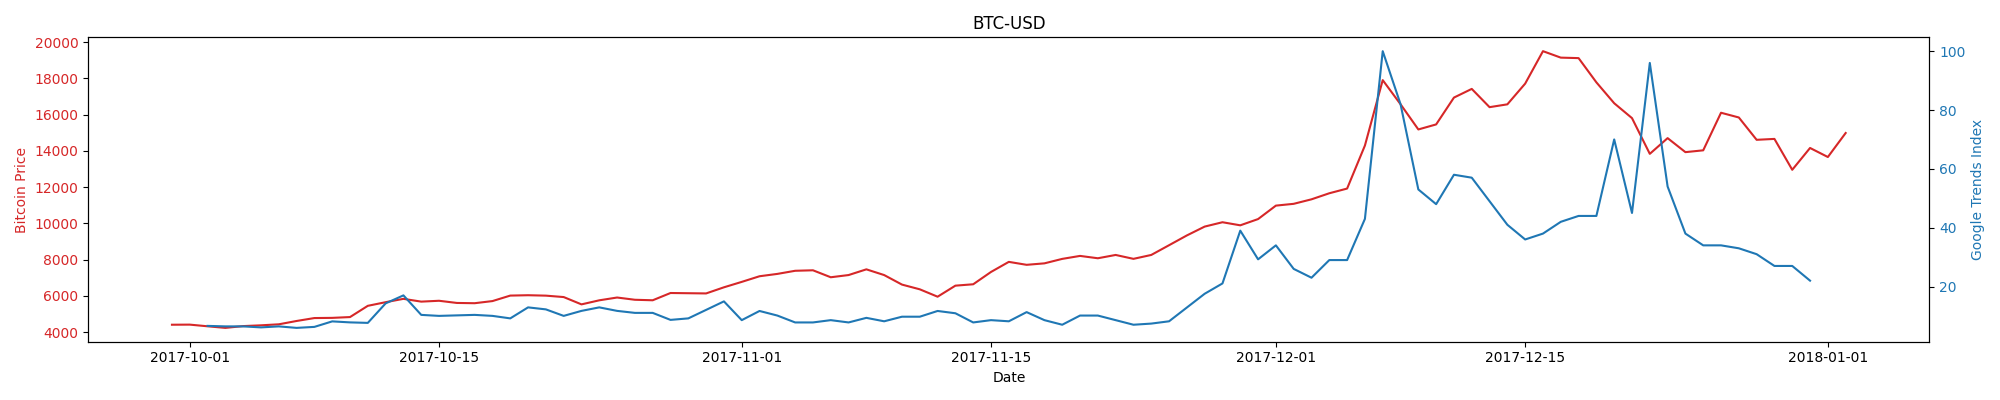
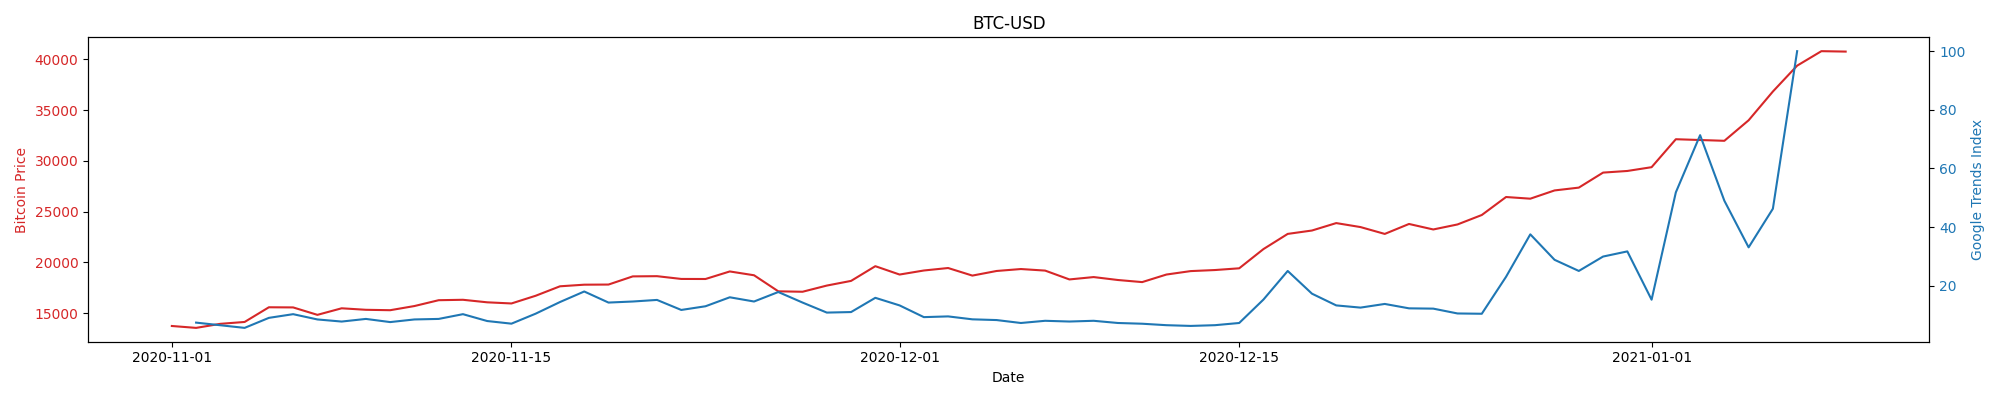
Completed update_csv_data function to update the csv file. Allows for updating data stored and faster graphing.

diff --git a/main.py b/main.py
@@ -3,16 +3,14 @@ import os
 import pandas as pd
 import pandas_datareader.data as dr
 import datetime
-import numpy as np
 import matplotlib.pyplot as plt
-from pytrends.request import TrendReq
 from pytrends.dailydata import get_daily_data
 
 pd.options.display.float_format = '{:,.1f}'.format
 
-start = datetime.datetime(2017, 10, 1)  # start date
-end = datetime.datetime(2018, 1, 1)
-#end = datetime.date.today()  # end date
+start = datetime.datetime(2020, 11, 1)  # start date
+end = datetime.datetime.now()
+# end = datetime.date.today()  # end date
 csv = "data_10year"
 
 
@@ -29,43 +27,38 @@ def ticker_vs_time(ticker, start, end):
     fig.set_size_inches(20, 3)
     plt.show()
 
-def update_interest_over_time(ticker, start, end):
+
+def update_csv_data(ticker):
+    start = datetime.date(2010, 1, 1) #datetime.date
+    end = datetime.date.today() #datetime.date
     try:
         pd.read_csv(csv, index_col=0)
     except FileNotFoundError:
         get_daily_data(ticker, start.year, start.month, end.year, end.month, geo="US", verbose=True).to_csv(csv)
     finally:
-        df = pd.read_csv(csv, index_col=0)
+        df = pd.read_csv(csv, index_col=0) #pandas.DataFrame
         last = df.index[len(df) - 1]
-        last = datetime.datetime.strptime(last, '%Y-%m-%d').date()
+        last = datetime.datetime.strptime(last, '%Y-%m-%d').date() #datetime.date
         if last != end:
             get_daily_data(ticker, last.year, last.month, end.year, end.month, geo="US", verbose=True).to_csv("temp")
-            new_df = pd.read_csv("temp", index_col=0)
+            new_df = pd.read_csv("temp", index_col=0) #pandas.DataFrame
             os.remove("temp")
-            df = df.append(new_df)
+            new = last + datetime.timedelta(days=1)
+            new = new.strftime('%Y-%m-%d')
+            if new in new_df.index:
+                df = df.append(new_df.loc[new:])
+            # if next.toString() in
+            #if there is overlap of index from df and new_df, only add the parts of new_df that does not overlap
             df.to_csv(csv)
 
-    # define a different start date for update function
 
-
-def plot_interest_over_time(ticker, start, end):
+def plot_interest_over_time():
     df = pd.read_csv(csv)
-    # print(len(df))
     plt.plot(df.index, df["bitcoin"])
     plt.title("Interest Over Time")
     fig = plt.gcf()
     fig.set_size_inches(20, 3)
     plt.savefig("Interest_chart")
-
-    """
-    
-    pytrend = Trendreq()
-    pytrend.build_payload(kw_list=[ticker], # len(kw_list) <= 5
-                          timeframe=start.strftime("%Y-%m-%d")+" "+end.strftime("%Y-%m-%d"),
-                          geo = 'US')
-    interest_over_time_df = pytrend.interest_over_time()
-    plt.plot(interest_over_time_df.index, interest_over_time_df[ticker])
-    """
 
 
 def interest_and_price_over_time(ticker, start, end):
@@ -80,6 +73,7 @@ def interest_and_price_over_time(ticker, start, end):
     ax1.plot(stock.index, stock["Adj Close"], color=color)
     ax1.tick_params(axis='y', labelcolor=color)
     # plot Google trends index on the twin y axis
+
     df = pd.read_csv(csv, index_col=0)
     color = 'tab:blue'
     ax2 = ax1.twinx()  # instantiate a second axes that shares the same x-a
@@ -91,17 +85,14 @@ def interest_and_price_over_time(ticker, start, end):
     plt.plot(df.index, df["bitcoin"])
     fig.tight_layout()  # otherwise the right y-label is slightly clipped
     plt.savefig("BTC-USD_2")
+    plt.show()
 
 
-# plot_interest_over_time("BTC/USD", start, end)
-# update_interest_over_time("bitcoin", start, end)
-# plot_interest_over_time("BTC-USD", start, end)
-
+# update_csv_data("bitcoin")
+# plot_interest_over_time()
 interest_and_price_over_time("BTC-USD", start, end)
 
 # stocks = ["AAPL", "AMZN", "TSLA", "NVDA", "MSFT", "LULU", "BRK-B"]
-
 # for ticker in stocks:
 #    interest_and_price_over_time(ticker, start, end)
-
 # interest_and_price_over_time("BTC/USD", datetime.datetime(2020, 12, 1), end)
